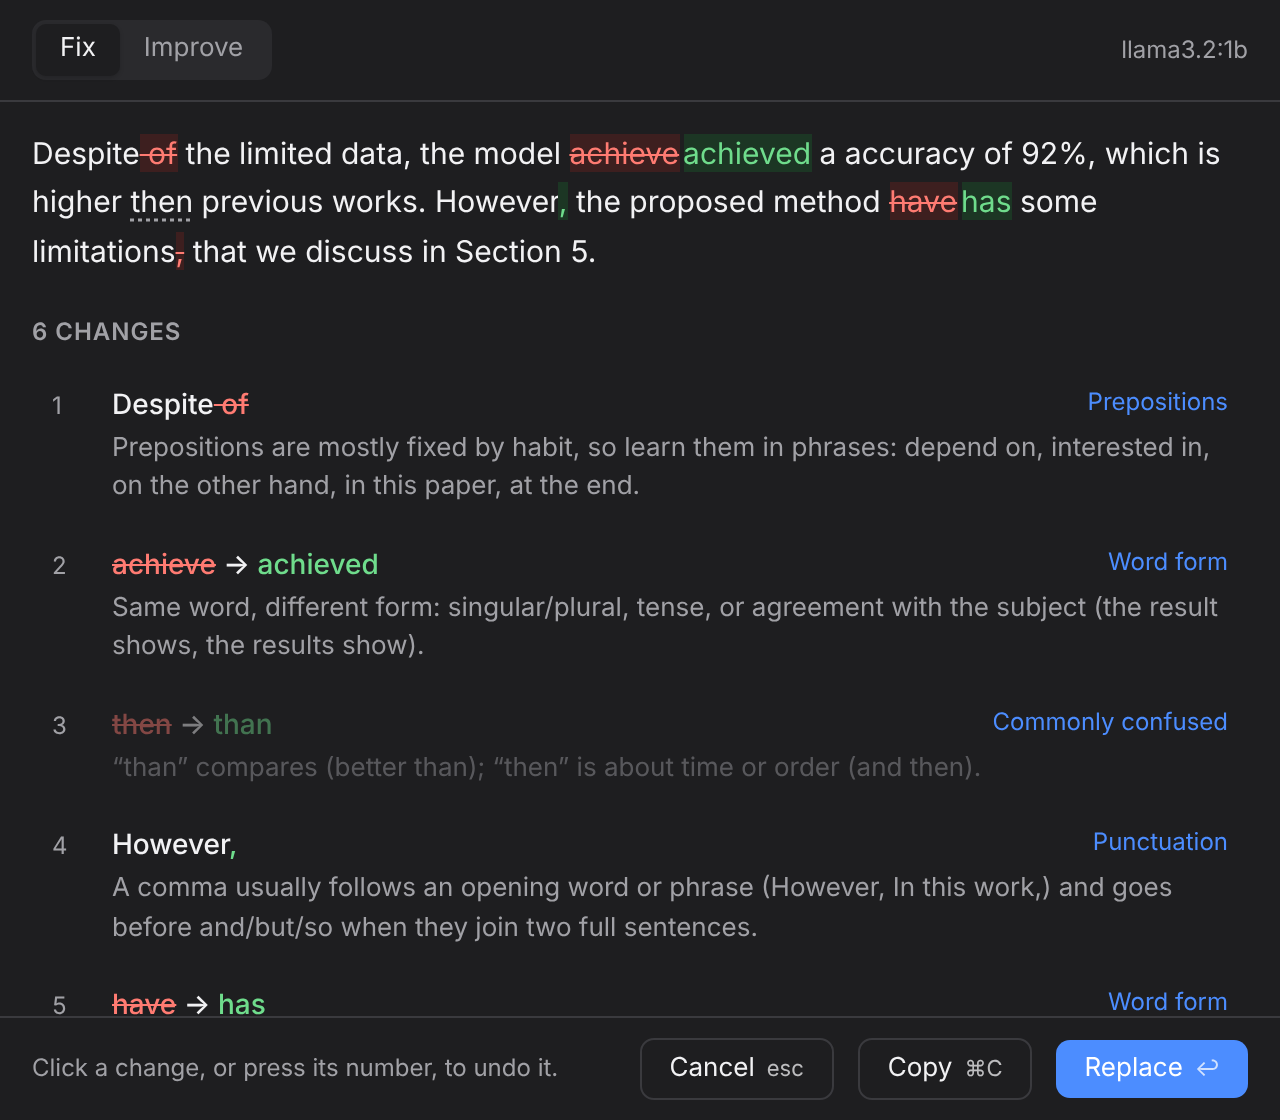
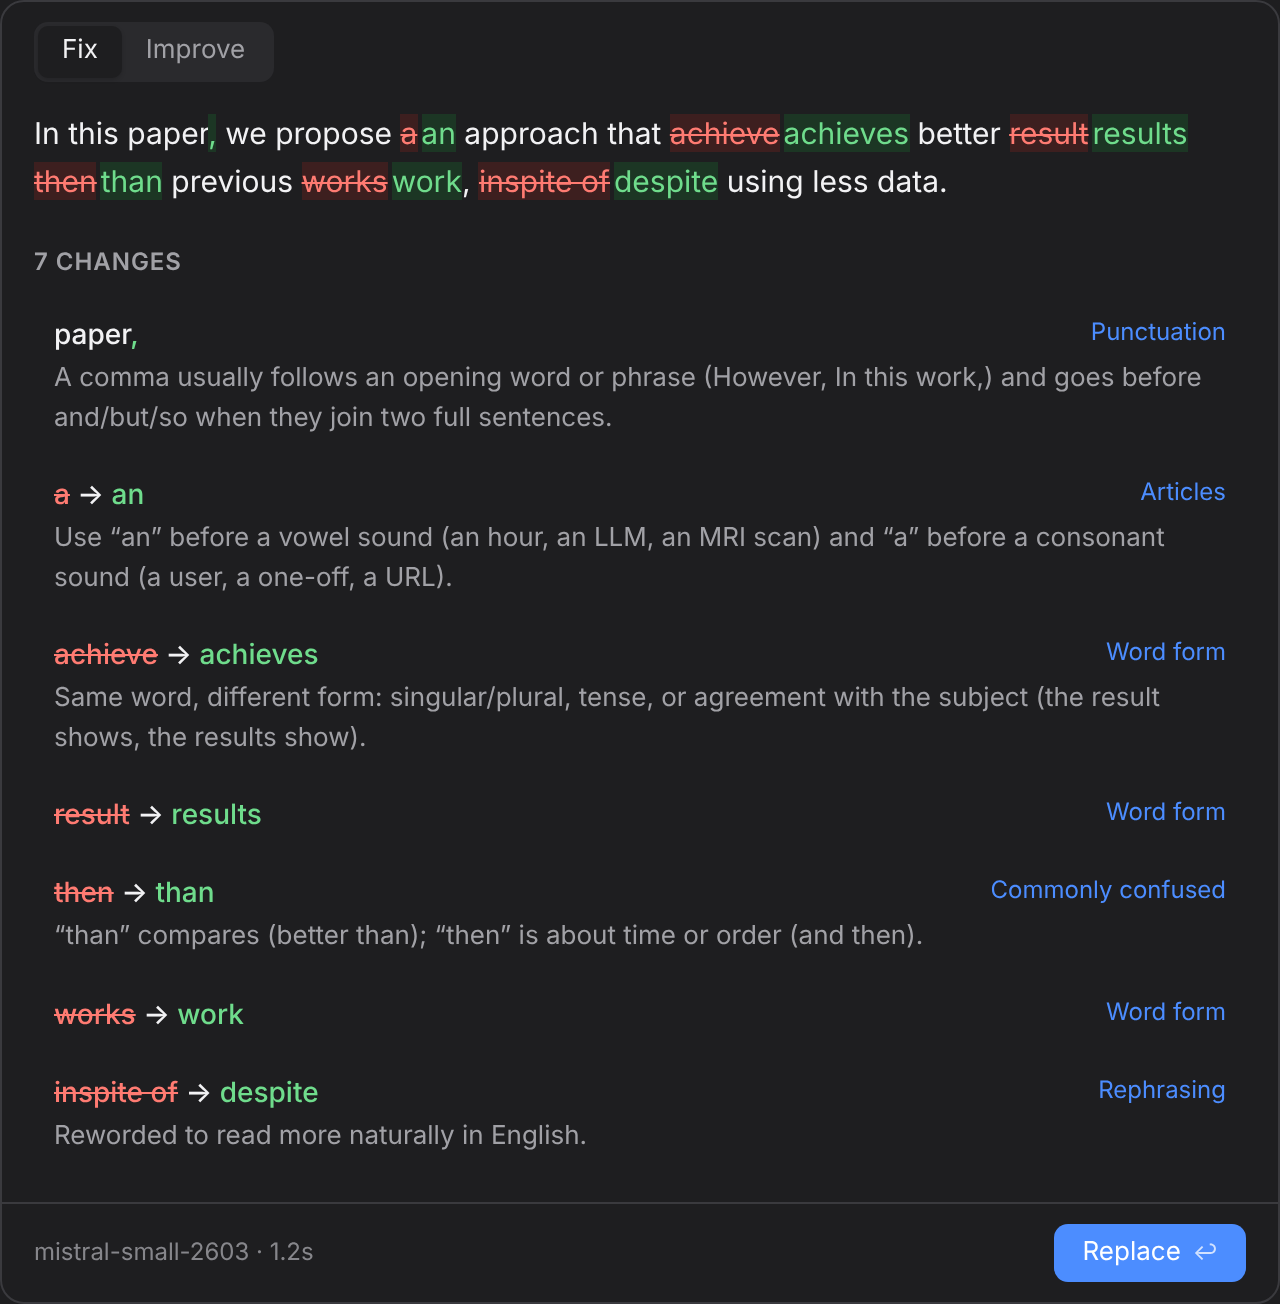
Simpler, Apple-style: one button, one shortcut, a clean popover
- The panel is a borderless popover with rounded corners. Its footer has
  one button that always does the obvious next step: Replace, Try again
  after an error, or Done when there's nothing to change. Return presses
  it; Esc or a click elsewhere closes; ⌘C still copies.
- No change numbers (1-9 still work), no hint line; the model name moves
  to a small grey label at the bottom. A note shared by several changes
  is shown once.
- Setup and the README teach one shortcut, ⌃⌥P, with the others under
  'when you want more'. The menu's 'Change model or API key' is Settings.
- Screenshots updated.

Claude-Session: https://claude.ai/code/session_01B5SfkBMMYhDRdXyctVc2BP

diff --git a/src/penwise/hammerspoon/Penwise.spoon/panel.html b/src/penwise/hammerspoon/Penwise.spoon/panel.html
@@ -37,9 +37,13 @@
   }
   * { box-sizing: border-box; }
   html, body { height: 100%; margin: 0; }
+  html { background: transparent; }
   body {
     display: flex;
     flex-direction: column;
+    overflow: hidden;
+    border: 1px solid var(--border);
+    border-radius: 12px;
     background: var(--bg);
     color: var(--text);
     font: 14px/1.5 -apple-system, BlinkMacSystemFont, "Helvetica Neue", sans-serif;
@@ -53,12 +57,10 @@
     padding: 10px 16px;
     border-color: var(--border);
   }
-  header { border-bottom: 1px solid var(--border); }
   footer { border-top: 1px solid var(--border); }
   .spacer { flex: 1; }
   .muted { color: var(--muted); font-size: 12px; }
-  #model { min-width: 0; white-space: nowrap; overflow: hidden; text-overflow: ellipsis; }
-  @media (max-width: 560px) { #hint { display: none; } }
+  #model { min-width: 0; white-space: nowrap; overflow: hidden; text-overflow: ellipsis; opacity: 0.8; }
 
   .modes { display: inline-flex; background: var(--surface); border-radius: 7px; padding: 2px; }
   .modes button {
@@ -73,7 +75,7 @@
   }
   .modes button[aria-pressed="true"] { background: var(--bg); color: var(--text); box-shadow: 0 1px 2px rgb(0 0 0 / 0.15); }
 
-  main { flex: 1; overflow-y: auto; padding: 14px 16px; }
+  main { flex: 1; overflow-y: auto; padding: 4px 16px 14px; }
   .text {
     white-space: pre-wrap;
     word-wrap: break-word;
@@ -108,7 +110,7 @@
   ol { list-style: none; margin: 0; padding: 0; }
   li {
     display: grid;
-    grid-template-columns: 20px 1fr auto;
+    grid-template-columns: 1fr auto;
     gap: 2px 10px;
     padding: 9px 10px;
     border-radius: 8px;
@@ -116,15 +118,14 @@
   }
   li:hover, li.active { background: var(--surface); }
   li.undone .what, li.undone .note { opacity: 0.45; }
-  li .num { color: var(--muted); font-size: 12px; padding-top: 2px; }
   li .what { font-weight: 500; }
   li .what del { color: var(--del); text-decoration-thickness: 1px; }
   li .what ins { color: var(--ins); text-decoration: none; }
   li .tag { font-size: 12px; color: var(--accent); white-space: nowrap; }
-  li .note, li .why, li .seen { grid-column: 2 / 4; font-size: 13px; color: var(--muted); }
+  li .note, li .why, li .seen { grid-column: 1 / 3; font-size: 13px; color: var(--muted); }
   li .why { color: var(--text); }
-  li .risk { grid-column: 2 / 4; font-size: 13px; color: var(--warn-text); }
-  li .keep { grid-column: 2 / 4; font-size: 12px; color: var(--muted); }
+  li .risk { grid-column: 1 / 3; font-size: 13px; color: var(--warn-text); }
+  li .keep { grid-column: 1 / 3; font-size: 12px; color: var(--muted); }
   button.link { border: 0; background: none; padding: 0; font: inherit; color: var(--accent); cursor: pointer; }
   li .seen { font-size: 12px; }
 
@@ -153,18 +154,14 @@
     <button type="button" data-style="email" title="Improve for an email">Email</button>
     <button type="button" data-style="chat" title="Improve for a chat message">Chat</button>
   </div>
-  <span class="spacer"></span>
-  <span class="muted" id="model"></span>
 </header>
 
 <main id="main"></main>
 
 <footer>
-  <span class="muted" id="hint">Click a change to undo it.</span>
+  <span class="muted" id="model"></span>
   <span class="spacer"></span>
-  <button type="button" class="secondary" id="cancel">Cancel<kbd>esc</kbd></button>
-  <button type="button" class="secondary" id="copy">Copy<kbd>⌘C</kbd></button>
-  <button type="button" class="primary" id="replace">Replace<kbd>↩</kbd></button>
+  <button type="button" class="primary" id="primary">Replace<kbd>↩</kbd></button>
 </footer>
 
 <script>
@@ -312,8 +309,11 @@ function renderText() {
 
 function renderChanges() {
   const list = el("ol");
-  state.changes.forEach((change, index) => {
+  const notesShown = new Set(); // each note once, under the first change it explains
+  state.changes.forEach((change) => {
     const seen = change.seen ? `You've made this fix ${change.seen}× before.` : "";
+    const note = notesShown.has(change.note) ? null : change.note;
+    notesShown.add(change.note);
     list.append(
       el(
         "li",
@@ -324,10 +324,9 @@ function renderChanges() {
           onmouseenter: () => highlight(change.id, true),
           onmouseleave: () => highlight(change.id, false),
         },
-        el("span", { class: "num" }, index < 9 ? String(index + 1) : ""),
         el("span", { class: "what" }, ...changeWords(change)),
         el("span", { class: "tag" }, change.label),
-        el("span", { class: "note" }, change.note),
+        note && el("span", { class: "note" }, note),
         change.reason && el("span", { class: "why" }, "Why: " + change.reason),
         change.risk && state.undone.has(change.id) &&
           el("span", { class: "risk" }, `Not applied: it would change ${change.risk}. Click to apply it.`),
@@ -408,17 +407,15 @@ function render() {
     main.append(el("div", { class: "error" }, state.error));
     main.append(
       el("div", { class: "status" },
-        el("button", { type: "button", class: "primary", onclick: retry }, "Try again", el("kbd", {}, "↩")),
-        " ",
-        el("button", { type: "button", class: "secondary", onclick: () => post({ action: "doctor" }) }, "Check my setup"),
+        el("button", { type: "button", class: "link", onclick: () => post({ action: "doctor" }) }, "Check my setup"),
         el("span", { class: "muted" }, "  opens a diagnosis in Terminal"),
       ),
     );
   } else if (state.status === "ready") {
     if (state.tips && state.changes.length) {
       main.append(el("div", { class: "tips" },
-        "New here? Click a change to undo it, press Return to replace your text. ",
-        "Not sure how to say something? Write it in your own language or [[like this]], or leave [[?]] for a word."));
+        "Click a change to undo it. Not sure how to say something? Write it in your own language, ",
+        "[[like this]], or leave [[?]] for a word."));
     }
     for (const warning of state.warnings) main.append(el("div", { class: "banner" }, warning));
     main.append(renderText());
@@ -430,17 +427,13 @@ function render() {
     }
   }
 
-  const ready = state.status === "ready";
-  document.getElementById("replace").disabled = !ready;
-  document.getElementById("copy").disabled = !ready;
-  // Views without text to edit only need a Close button.
   const reading = state.status === "insights" || state.status === "note";
-  for (const id of ["replace", "copy"]) document.getElementById(id).hidden = reading;
+  const button = document.getElementById("primary");
+  button.firstChild.textContent = primaryLabel();
+  button.disabled = state.status === "loading" || state.status === "idle";
   document.getElementById("modes").hidden = reading;
   // Improve's tone: guessed from the app, one click to change.
   document.getElementById("tones").hidden = reading || state.mode !== "improve";
-  document.getElementById("cancel").firstChild.textContent = reading ? "Close" : "Cancel";
-  document.getElementById("hint").textContent = ready && state.changes.length ? "Click a change, or press its number, to undo it." : "";
   if (state.status !== "idle") reportSize();
 }
 
@@ -474,6 +467,19 @@ function replace() {
     before, after, category, context_before, context_after,
   }));
   post({ action: "replace", text: finalText(), changes: accepted });
+}
+
+// One button for whatever comes next: Replace, Try again, or Done. Return presses it.
+function primaryLabel() {
+  if (state.status === "error") return "Try again";
+  if (state.status === "loading" || (state.status === "ready" && state.changes.length)) return "Replace";
+  return "Done";
+}
+
+function primary() {
+  if (state.status === "error") retry();
+  else if (state.status === "ready" && state.changes.length) replace();
+  else if (state.status !== "loading" && state.status !== "idle") post({ action: "cancel" });
 }
 
 function retry() {
@@ -548,9 +554,7 @@ document.querySelectorAll("[data-mode]").forEach((button) => {
 document.querySelectorAll("[data-style]").forEach((button) => {
   button.addEventListener("click", () => setStyle(button.dataset.style));
 });
-document.getElementById("cancel").addEventListener("click", () => post({ action: "cancel" }));
-document.getElementById("copy").addEventListener("click", copy);
-document.getElementById("replace").addEventListener("click", replace);
+document.getElementById("primary").addEventListener("click", primary);
 
 // A new width can change how the text wraps.
 window.addEventListener("resize", () => {
@@ -565,8 +569,7 @@ document.addEventListener("keydown", (event) => {
   const selection = String(window.getSelection());
   if (event.key === "Enter") {
     event.preventDefault();
-    if (state.status === "error") retry();
-    else replace();
+    primary();
   } else if (event.key === "Escape") {
     event.preventDefault();
     post({ action: "cancel" });

diff --git a/tests/test_panel.py b/tests/test_panel.py
@@ -93,7 +93,7 @@ def test_explanations_and_errors_are_shown(page):
 
     send(page, {"type": "error", "message": "Could not reach the model."})
     assert "Could not reach the model." in page.locator("main").inner_text()
-    assert page.locator("#replace").is_disabled()
+    assert page.locator("#primary").inner_text().startswith("Try again")  # the one button: what comes next
     page.keyboard.press("Enter")
     assert sent(page)[-1] == {"action": "retry", "mode": "fix"}
     page.get_by_role("button", name="Check my setup").click()
@@ -145,8 +145,9 @@ def test_a_note_shows_plain_text(page):
     assert page.locator("h2").text_content() == "Your recurring fixes"
     assert page.locator("pre").inner_text() == "3× in → on"
     page.keyboard.press("Tab")
+    assert sent(page) == [{"action": "ready"}]  # no mode switch
     page.keyboard.press("Enter")
-    assert sent(page) == [{"action": "ready"}]  # no mode switch, nothing to replace
+    assert sent(page)[-1] == {"action": "cancel"}  # Done
 
 
 def test_risky_changes_start_unapplied(page):
@@ -197,8 +198,8 @@ def test_insights_view(page):
     assert "Use “an” before a vowel sound." in text
     assert "e.g. …results [in] the other hand…" in text
     assert page.locator(".bar").count() == 2
-    assert page.locator("#replace").is_hidden() and page.locator("#modes").is_hidden()
-    assert page.locator("#cancel").inner_text().startswith("Close")
+    assert page.locator("#modes").is_hidden()
+    assert page.locator("#primary").inner_text().startswith("Done")
 
 
 def test_insights_without_history(page):
@@ -220,7 +221,7 @@ def test_first_time_tips(page):
     send(page, {"type": "begin", "original": "a eror", "mode": "fix"})
     send(page, {"type": "start", "model": "m", "explain": False, "tips": True})
     send(page, check_result("a eror", "an error"))
-    assert "New here? Click a change to undo it" in page.locator(".tips").inner_text()
+    assert "Click a change to undo it" in page.locator(".tips").inner_text()
     send(page, {"type": "begin", "original": "a eror", "mode": "fix"})
     send(page, {"type": "start", "model": "m", "explain": False, "tips": False})
     send(page, check_result("a eror", "an error"))
@@ -233,3 +234,24 @@ def test_the_panel_asks_for_a_window_that_fits(page):
     assert 120 < short < 260
     send(page, check_result("a eror", "an error"))
     assert sizes(page)[-1] > short  # the list of changes needs more room
+
+
+def test_one_button_does_what_comes_next(page):
+    send(page, {"type": "begin", "original": "a eror", "mode": "fix"})
+    assert page.locator("footer button").count() == 1
+    assert page.locator("#primary").is_disabled()  # still checking
+    send(page, check_result("a eror", "an error"))
+    assert page.locator("#primary").inner_text().startswith("Replace")
+    page.locator("#primary").click()
+    assert sent(page)[-1]["action"] == "replace"
+
+    send(page, {"type": "begin", "original": "All good.", "mode": "fix"})
+    send(page, check_result("All good.", "All good."))
+    assert page.locator("#primary").inner_text().startswith("Done")
+
+
+def test_a_note_is_shown_once_for_changes_of_the_same_kind(page):
+    send(page, {"type": "begin", "original": "She have two dataset.", "mode": "fix"})
+    send(page, check_result("She have two dataset.", "She has two datasets."))
+    assert page.locator("li").count() == 2
+    assert page.locator("li .note").count() == 1  # both are "Word form"

diff --git a/src/penwise/wizard.py b/src/penwise/wizard.py
@@ -49,11 +49,8 @@ def run() -> int:
     hotkey = platform.system() == "Darwin" and confirm("\nSet up the hotkey that works in every app?")
     if hotkey and setup_hotkey():
         print(
-            "\nAll set! Select text in any app, then press:\n"
-            "  ⌃⌥P   review the fixes (Control+Option+P)\n"
-            "  ⌃⌥⇧P  also improve clarity and flow\n"
-            "  ⌃⌥⌘P  quick fix: replace right away, no review\n"
-            "With nothing selected, Penwise checks the whole text box, or the paragraph at the cursor."
+            "\nAll set! Click in any text box and press ⌃⌥P (Control+Option+P).\n"
+            "Return puts the fix in; Esc closes. (⌃⌥⇧P also improves the flow; ⌃⌥⌘P fixes without asking.)"
         )
         if confirm("Try it now on a practice note?"):
             setup_mac.open_practice_note(config.config_path().parent)

diff --git a/tests/test_spoon.py b/tests/test_spoon.py
@@ -257,7 +257,7 @@ def test_the_menu_bar_offers_every_action_with_its_hotkey(config):
         "-",
         "Your recurring fixes…",
         "Try it on a practice note",
-        "Change model or API key…",
+        "Settings…",
         "Check my setup…",
     ]
     click(spoon, "Quick fix")
@@ -280,7 +280,7 @@ def test_the_menu_shows_your_recurring_fixes(config):
 def test_the_menu_opens_setup_in_terminal(config):
     spoon = Spoon("stream")
     spoon.run("spoon:start()")
-    click(spoon, "Change model or API key")
+    click(spoon, "Settings")
     (script,) = [line for line in spoon.log if line.startswith("applescript")]
     assert 'tell application "Terminal"' in script
     assert script.rstrip().endswith('-m penwise setup"\nend tell')

diff --git a/README.md b/README.md
@@ -1,7 +1,7 @@
 # Penwise
 
-Select text in any app on your Mac, press **⌃⌥P**, and see what's wrong with your English, with a short
-explanation of each change. Keep the changes you agree with, press **Return**, and your text is replaced.
+Click in any text box on your Mac and press **⌃⌥P**. Penwise shows what's wrong with your English, with a short
+explanation of each change. Press **Return**, and your text is fixed.
 
 Penwise is made for research and professional writing by non-native speakers. It aims to teach as well as correct:
 every change comes with a short note, and the fixes you make again and again show up in `penwise insights`.
@@ -79,31 +79,28 @@ Three design rules keep it trustworthy:
    short list, tests it, and installs the hotkey (it can install [Hammerspoon](https://www.hammerspoon.org) for you
    with Homebrew). Press Return to take the suggested answer at every step.
 
-3. **Use it.** Select text in any app and press:
+3. **Use it.** Click in any text box and press **⌃⌥P** (Control+Option+P). Look over the changes, then press
+   **Return** to put the fix in, or **Esc** to close. That's all you need to know.
 
-   | Hotkey | What it does |
-   | ------ | ------------ |
-   | **⌃⌥P**  (Control+Option+P)       | review the fixes, each with a short note, then press Return to replace |
-   | **⌃⌥⇧P** (Control+Option+Shift+P) | the same, and also improve clarity and flow |
-   | **⌃⌥⌘P** (Control+Option+Command+P) | quick fix: replace right away, with a one-line summary |
+When you want more:
 
-| In the review panel |                                   |
-| ------------------- | --------------------------------- |
-| click / 1–9         | undo or redo a single change      |
-| Return              | replace your text with the fix    |
-| ⌘C                  | copy the result instead           |
-| Tab                 | switch between Fix and Improve    |
-| Esc                 | close without changing anything   |
+| Key | What it does |
+| --- | ------------ |
+| click a change, or 1–9 | undo or redo that change |
+| Tab | switch between *Fix* and *Improve* (clarity and flow) |
+| ⌘C | copy the result instead of replacing |
+| **⌃⌥⇧P** | open straight in *Improve* |
+| **⌃⌥⌘P** | quick fix: replace right away, with a one-line summary |
 
 Prefer clicking? The **✎ icon in the menu bar** has the same three actions, plus *Your recurring fixes*,
-*Try it on a practice note* (handy for showing a colleague; also `penwise try`), *Change model or API key*, and
+*Try it on a practice note* (handy for showing a colleague; also `penwise try`), *Settings* (model and API key), and
 *Check my setup*.
 
 **You rarely need to select anything.** With nothing selected, Penwise reads the text straight from the app: in a
 short text box (a message, a comment, up to 2,000 characters) it takes the whole box; in a longer document, the
-paragraph your cursor is in. The panel opens right above your text (or below, if there's no room), sized to fit,
-shows a timer while it works, and closes by itself when your text needs no changes. To change the hotkeys, edit the Penwise block in `~/.hammerspoon/init.lua`; running
-`penwise setup` again keeps your changes.
+paragraph your cursor is in. Select text to check just that. The panel opens right above your text, sized to fit,
+and closes by itself when your text needs no changes, or when you click elsewhere. To change the hotkeys, edit the
+Penwise block in `~/.hammerspoon/init.lua`; running `penwise setup` again keeps your changes.
 
 ### The right tone, automatically
 
